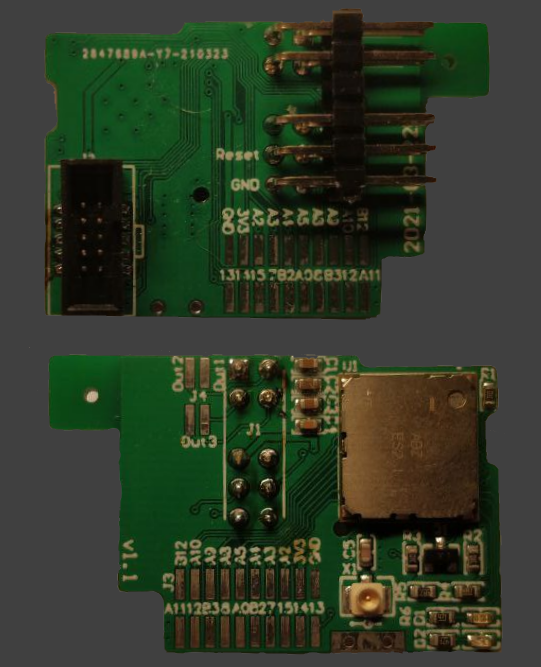
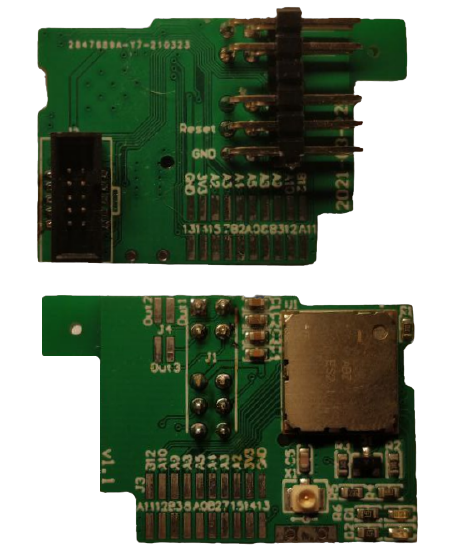
Updated photo

diff --git a/README.md b/README.md
@@ -1,3 +1,7 @@
 ## WirenBoard 6 LoRa module
 
 ![Assembled device](/Docs/photo.png)
+
+## Links
+* [Bootloader](https://github.com/yarreg/stm32l0-uart-bootloader)
+* [Modem software](https://github.com/yarreg/wb-cmwx1zzabz-modem)
